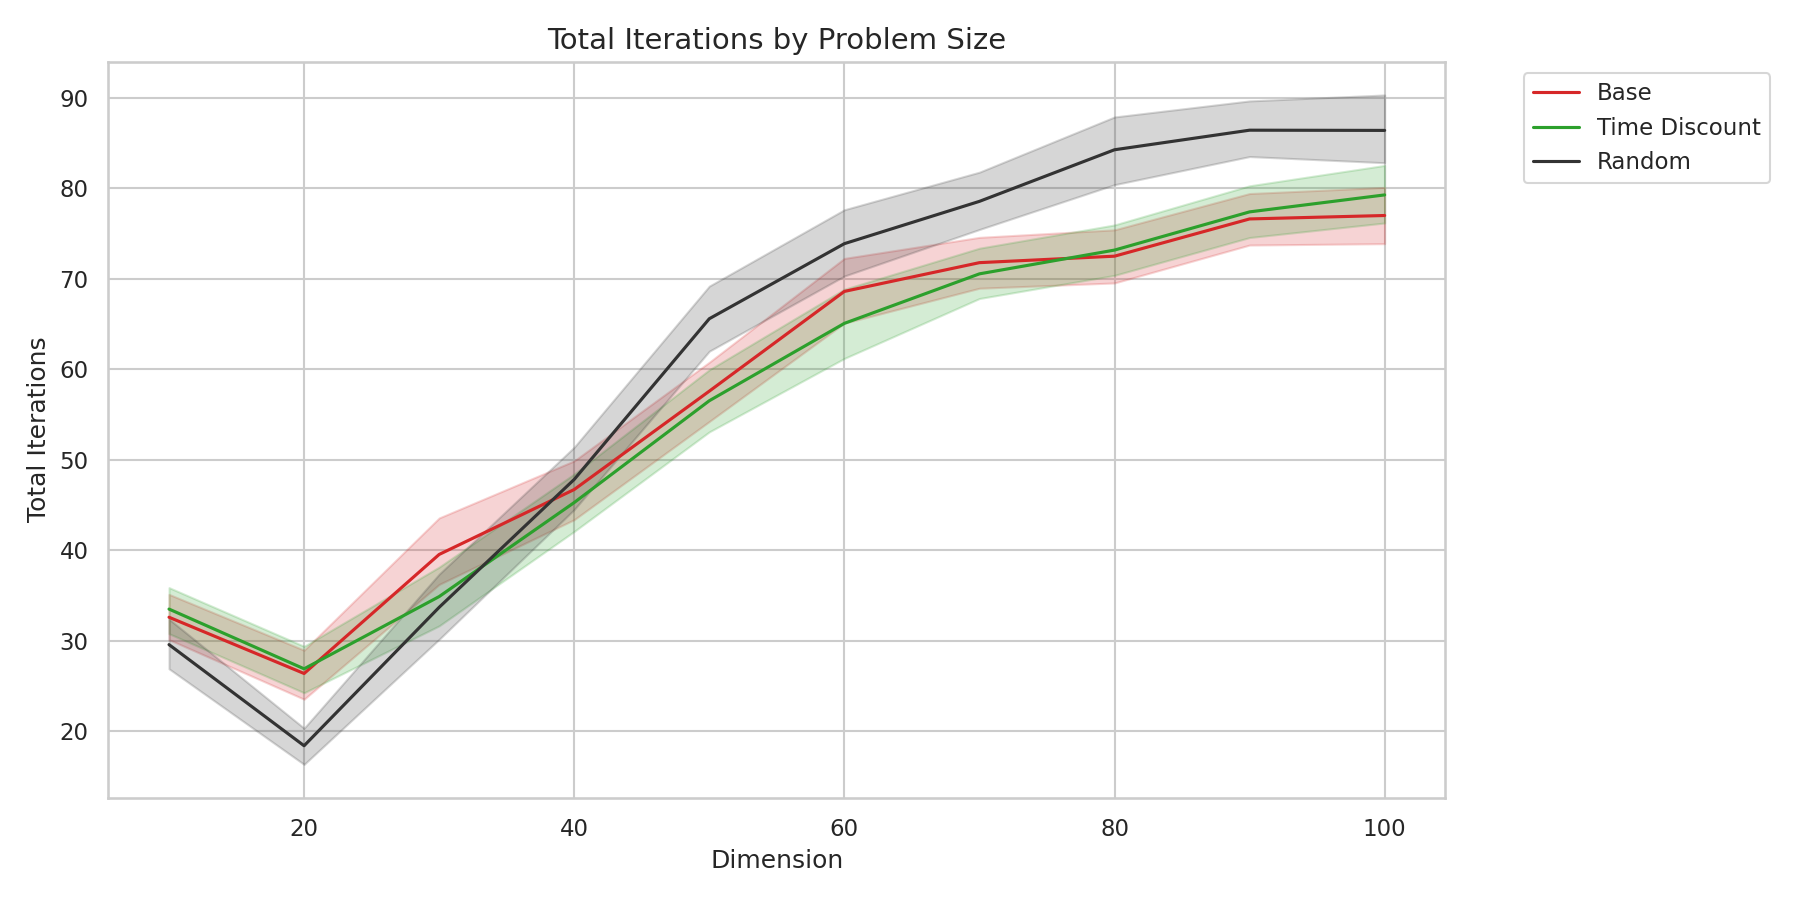
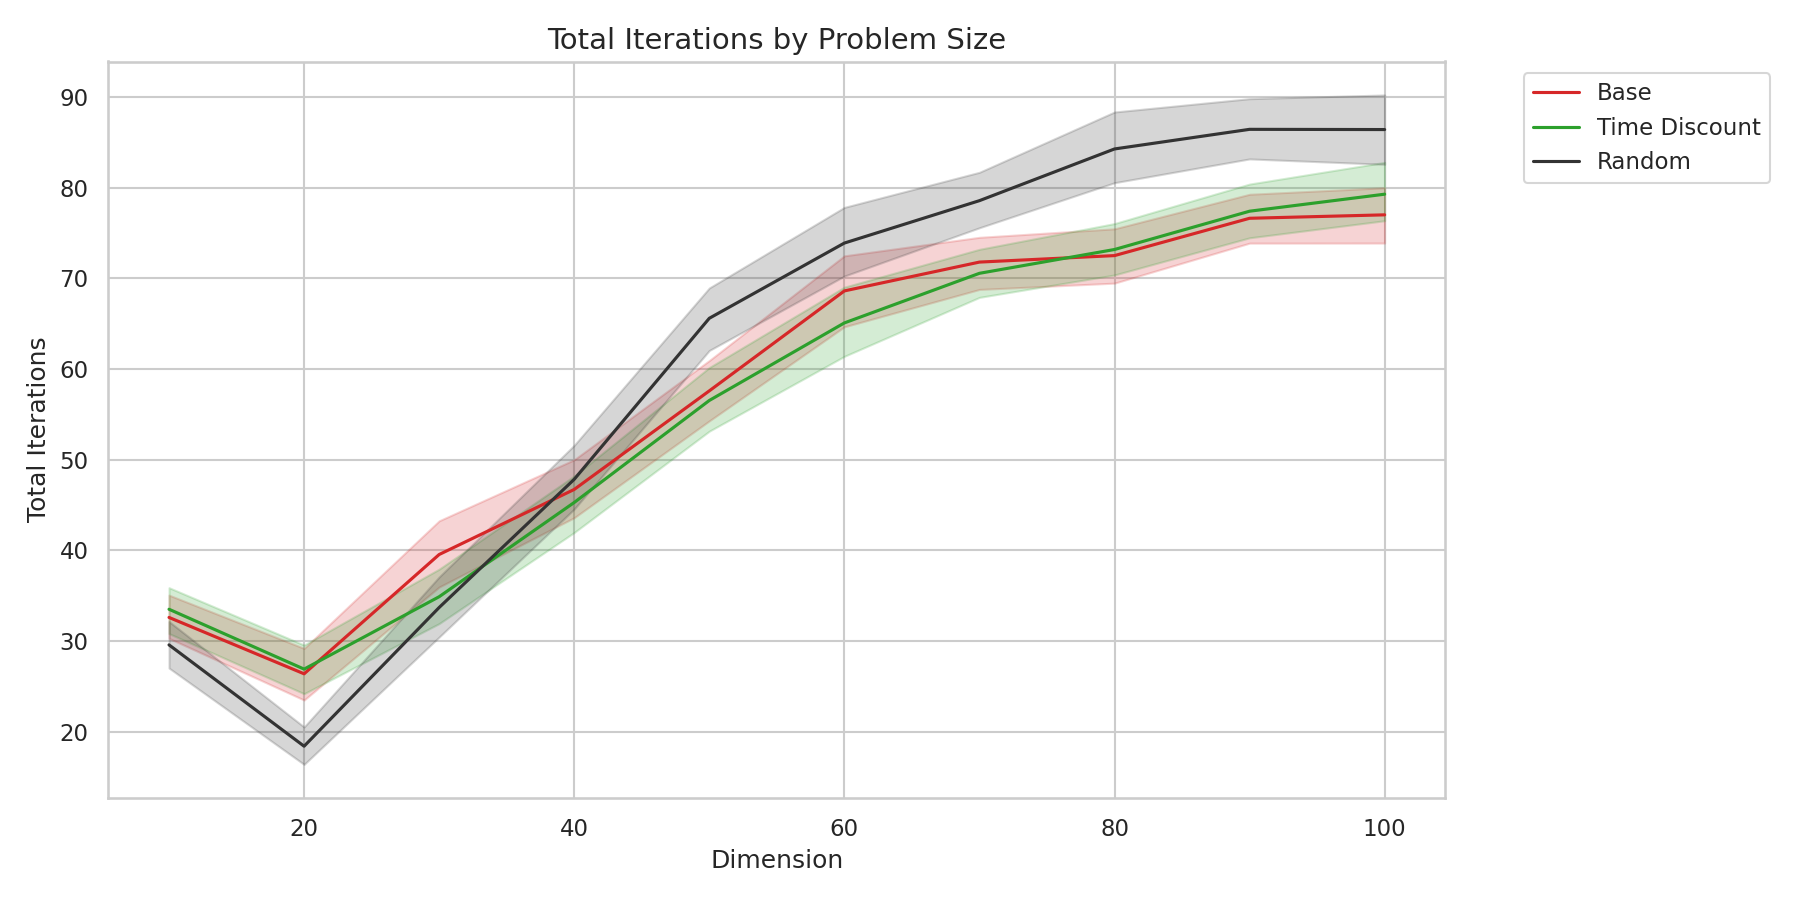
Added time graphs and normalized per dimension comparisson
- Small correction on the Suboptimal Instances plot

diff --git a/scripts/plot_results.py b/scripts/plot_results.py
@@ -109,10 +109,32 @@ sns.lineplot(
     errorbar=None 
 )
 plt.title('Gap evolution by Problem Size', fontsize=14)
-plt.ylabel('Gap to Optimal (%)')
+plt.ylabel('Gap to BFS (%)')
 plt.legend(bbox_to_anchor=(1.05, 1), loc='upper left')
 plt.tight_layout()
-plt.savefig(os.path.join(output_dir, '1_scalability_gap_vs_dim.png'))
+plt.savefig(os.path.join(output_dir, '1A_scalability_gap_vs_dim_gap.png'))
+plt.close()
+
+
+plt.figure(figsize=(12, 6))
+sns.lineplot(
+    data=master_df, 
+    x='Dimension', 
+    y='Time (ms)', 
+    hue='Experiment', 
+    style='Experiment', 
+    palette=custom_palette,      # <--- APPLYING COLORS
+    hue_order=logical_order,     # <--- SORTING LEGEND
+    style_order=logical_order,   # <--- SORTING STYLES
+    markers=True, 
+    dashes=False,
+    errorbar=None 
+)
+plt.title('Time evolution by Problem Size', fontsize=14)
+plt.ylabel('Average Time (ms)')
+plt.legend(bbox_to_anchor=(1.05, 1), loc='upper left')
+plt.tight_layout()
+plt.savefig(os.path.join(output_dir, '1B_scalability_gap_vs_dim_time.png'))
 plt.close()
 
 # --- PLOT B: Efficiency Frontier (Time vs Gap) ---
@@ -142,7 +164,6 @@ plt.savefig(os.path.join(output_dir, '2_efficiency_time_vs_gap.png'))
 plt.close()
 
 # --- PLOT C: Topology Robustness (Gap by Type) ---
-# --- PLOT C: Robustness (Separated by Type) ---
 
 # We use catplot to create a grid of subplots (facets)
 g = sns.catplot(
@@ -171,12 +192,47 @@ if not master_df['Gap'].isnull().all():
 g.set_xticklabels(rotation=45, ha='right')
 
 # Add titles and labels
-g.fig.subplots_adjust(top=0.92) # Make room for the main title
-g.fig.suptitle('Gap Distribution by Problem Type', fontsize=16)
-g.set_axis_labels("", "Gap to Optimal (%)") # Remove X label (redundant)
+g.figure.subplots_adjust(top=0.92) # Make room for the main title
+g.figure.suptitle('Gap Distribution by Problem Type', fontsize=16)
+g.set_axis_labels("", "Gap to BFS (%)") # Remove X label (redundant)
 
 plt.tight_layout()
-plt.savefig(os.path.join(output_dir, '3_robustness_type_vs_gap.png'))
+plt.savefig(os.path.join(output_dir, '3A_robustness_type_vs_gap.png'))
+plt.close()
+
+# We use catplot to create a grid of subplots (facets)
+g = sns.catplot(
+    data=master_df, 
+    x='Experiment', 
+    y='Time (ms)', 
+    col='Type',           # <--- This splits the graph into 3 columns
+    kind='violin',        # You can change this to 'box' if you prefer
+    col_wrap=1,           # <--- Stacks them vertically (1 column) for better width
+    aspect=2.5,           # Makes each plot wide enough to read labels
+    height=4,             # Height of each row
+    palette=custom_palette, 
+    hue='Experiment',
+    order=logical_order,  # Ensures the order on X-axis is logical
+    cut=0,                # Don't extend violin past data range
+    sharex=False          # Keeps x-labels independent if needed
+)
+
+# Adjust the Y-axis limit for all plots to zoom in on the important part
+# (Calculated based on 95th percentile to ignore extreme outliers)
+if not master_df['Time (ms)'].isnull().all():
+    y_lim = master_df['Time (ms)'].quantile(0.95) * 1.5
+    g.set(ylim=(0, y_lim))
+
+# Rotate the x-axis labels so they don't overlap
+g.set_xticklabels(rotation=45, ha='right')
+
+# Add titles and labels
+g.figure.subplots_adjust(top=0.92) # Make room for the main title
+g.figure.suptitle('Time Distribution by Problem Type', fontsize=16)
+g.set_axis_labels("", "Average Time (ms)") # Remove X label (redundant)
+
+plt.tight_layout()
+plt.savefig(os.path.join(output_dir, '3B_robustness_type_vs_time.png'))
 plt.close()
 
 # --- PLOT D: Convergence Speed (Iterations vs Dimension) ---
@@ -193,4 +249,84 @@ plt.title('Total Iterations by Problem Size', fontsize=14)
 plt.legend(bbox_to_anchor=(1.05, 1), loc='upper left')
 plt.tight_layout()
 plt.savefig(os.path.join(output_dir, '4_convergence_iterations.png'))
+plt.close()
+
+
+# ==========================================
+# 1. PREPARE NORMALIZED DATA
+# ==========================================
+
+# Filter only the relevant experiments
+# We need 'Base' for the math, and 'Trained 50' variants for the plot
+target_experiments = [
+    'Base', 
+    'Trained 50 ATT', 'Trained 50 GEO', 'Trained 50 EUC',
+    'Trained 50 ATT (Time)', 'Trained 50 GEO (Time)', 'Trained 50 EUC (Time)'
+]
+subset_df = master_df[master_df['Experiment'].isin(target_experiments)].copy()
+
+# Aggregate by Experiment and Dimension first
+# We compare the average performance at each dimension
+agg_df = subset_df.groupby(['Experiment', 'Dimension'])[['Gap', 'Time (ms)']].mean().reset_index()
+
+# Extract the 'Base' values to use as the denominator
+base_values = agg_df[agg_df['Experiment'] == 'Base'][['Dimension', 'Gap', 'Time (ms)']]
+base_values = base_values.rename(columns={'Gap': 'Base_Gap', 'Time (ms)': 'Base_Time'})
+
+# Merge Base values back into the main dataframe
+merged_df = pd.merge(agg_df, base_values, on='Dimension', how='left')
+
+# Calculate Ratios
+merged_df['Norm_Gap'] = merged_df['Gap'] / merged_df['Base_Gap']
+merged_df['Norm_Time'] = merged_df['Time (ms)'] / merged_df['Base_Time']
+
+# Remove 'Base' rows from the final plot data (since they would just be 1.0, 1.0)
+plot_df = merged_df[merged_df['Experiment'] != 'Base']
+
+# ==========================================
+# 2. GENERATE FACETED PLOT
+# ==========================================
+
+# Using relplot to create a grid of scatter plots (one per Dimension)
+g = sns.relplot(
+    data=plot_df,
+    x='Norm_Time',
+    y='Norm_Gap',
+    hue='Experiment',
+    col='Dimension',        # Create one subplot per Dimension
+    col_wrap=5,             # 5 graphs per row (adjust based on screen size)
+    palette=custom_palette, # Use your custom colors
+    hue_order=[e for e in logical_order if e in plot_df['Experiment'].unique()],
+    s=150,                  # Marker size
+    edgecolor='black',
+    alpha=0.8,
+    height=3.5,
+    aspect=1
+)
+
+# ==========================================
+# 3. ADD REFERENCE LINES & FORMATTING
+# ==========================================
+
+# Add lines at 1.0 to show the "Base" performance threshold
+for ax in g.axes.flat:
+    ax.axhline(1.0, color='red', linestyle='--', linewidth=1, alpha=0.5)
+    ax.axvline(1.0, color='red', linestyle='--', linewidth=1, alpha=0.5)
+    
+    # Optional: Shade the "Win" quadrant (Bottom-Left)
+    # This highlights models that are strictly better than Base
+    xlim = ax.get_xlim()
+    ylim = ax.get_ylim()
+    # We set a semi-transparent green box from 0,0 to 1,1
+    import matplotlib.patches as patches
+    rect = patches.Rectangle((0, 0), 1, 1, linewidth=0, edgecolor='none', facecolor='green', alpha=0.05)
+    ax.add_patch(rect)
+
+# Titles
+g.figure.subplots_adjust(top=0.9)
+g.figure.suptitle('Relative Performance vs. Base Model (Normalized)', fontsize=16)
+
+g.set_axis_labels("Normalized Time (x Base)", "Normalized Gap (x Base)")
+
+plt.savefig(os.path.join(output_dir, '5_relative_performance.png'))
 plt.close()

diff --git a/utils/plot.py b/utils/plot.py
@@ -901,7 +901,7 @@ def plot_suboptimal_time_analysis(
     else:
         ax.set_title("Execution Time for Suboptimal Instances (gap > 0)")
 
-    plt.tight_layout()
+    #plt.tight_layout()
 
     if save_path:
         plt.savefig(save_path)
